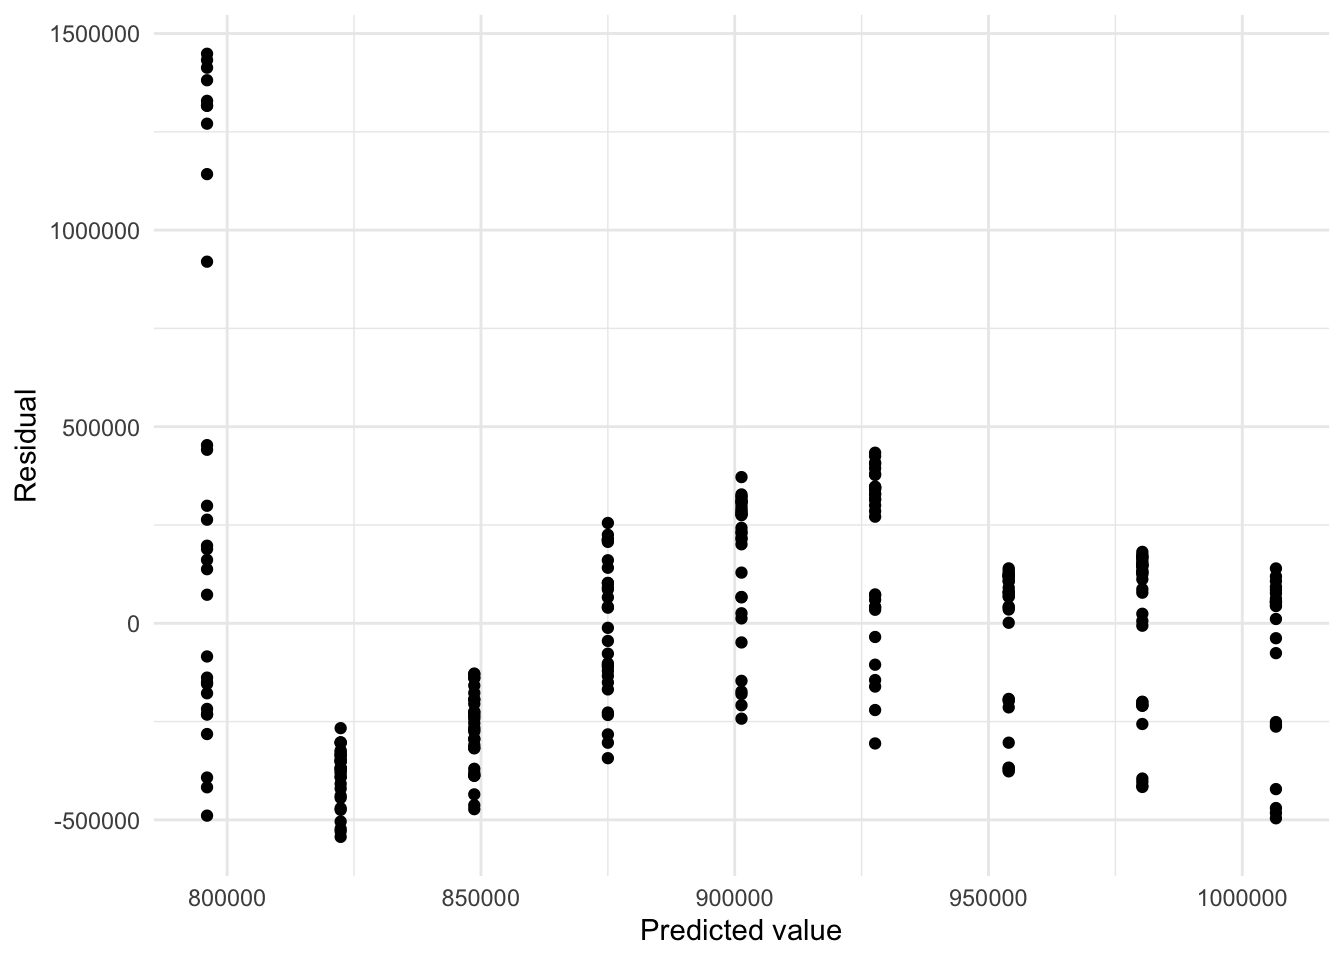
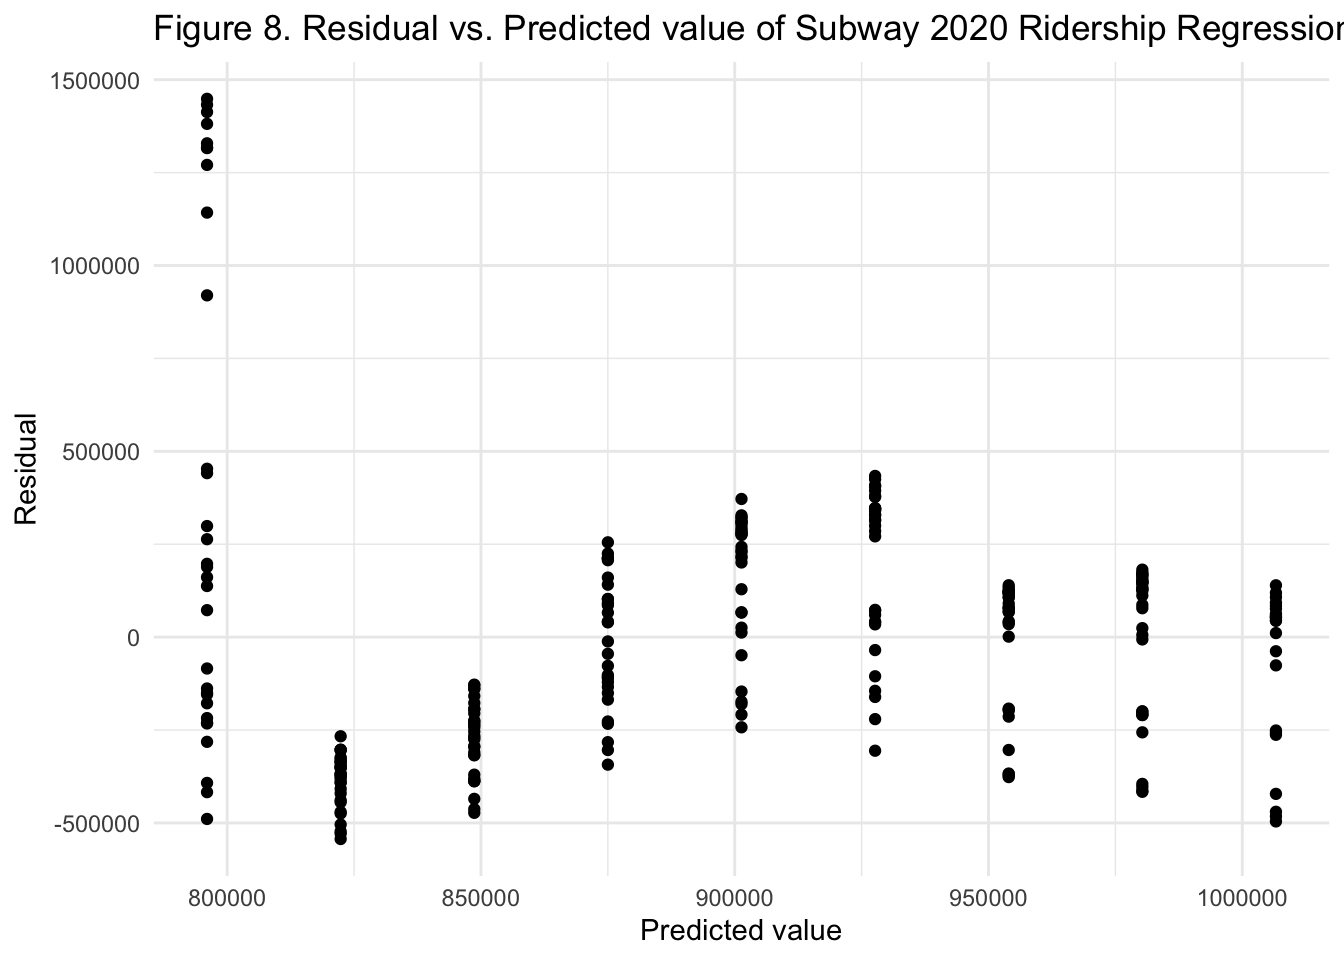
changes

diff --git a/Analysis2.html b/Analysis2.html
@@ -416,7 +416,7 @@ div.tocify {
 <p><br></p>
 <div id="comparing-subway-and-bus-ridership-with-regression-modeling" class="section level1">
 <h1>Comparing Subway and Bus Ridership with Regression Modeling</h1>
-<p>“First we need to propose a regression model for subway ridership in 2020. As the outcome (subway ridership) is continuous, we can fit a linear regression model.”</p>
+<p>First we need to propose a regression model for subway ridership in 2020. As the outcome (subway ridership) is continuous, we can fit a linear regression model.</p>
 <pre class="r"><code>subway_ridership = lm(subway_2020 ~ month, data = mta_data)
 
 subway_ridership %&gt;% 
@@ -521,14 +521,9 @@ ggplot(mta_data, aes(month, bus_2020)) +
   modelr::add_residuals(bus_ridership) %&gt;% 
   ggplot(aes(x = pred, y = resid)) + geom_point() + 
   labs(x = &quot;Predicted value&quot;, 
-       y = &quot;Residual&quot;)</code></pre>
+       y = &quot;Residual&quot;) +
+ggtitle(&quot;Figure 8. Residual vs. Predicted value of Subway 2020 Ridership Regression Model&quot;)</code></pre>
 <p><img src="Analysis2_files/figure-html/unnamed-chunk-5-1.png" width="672" /></p>
-<pre class="r"><code>ggtitle(&quot;Residual vs. Predicted value of Subway 2020 Ridership Regression Model&quot;)</code></pre>
-<pre><code>## $title
-## [1] &quot;Residual vs. Predicted value of Subway 2020 Ridership Regression Model&quot;
-## 
-## attr(,&quot;class&quot;)
-## [1] &quot;labels&quot;</code></pre>
 <div id="results" class="section level3">
 <h3>Results</h3>
 <ul>
